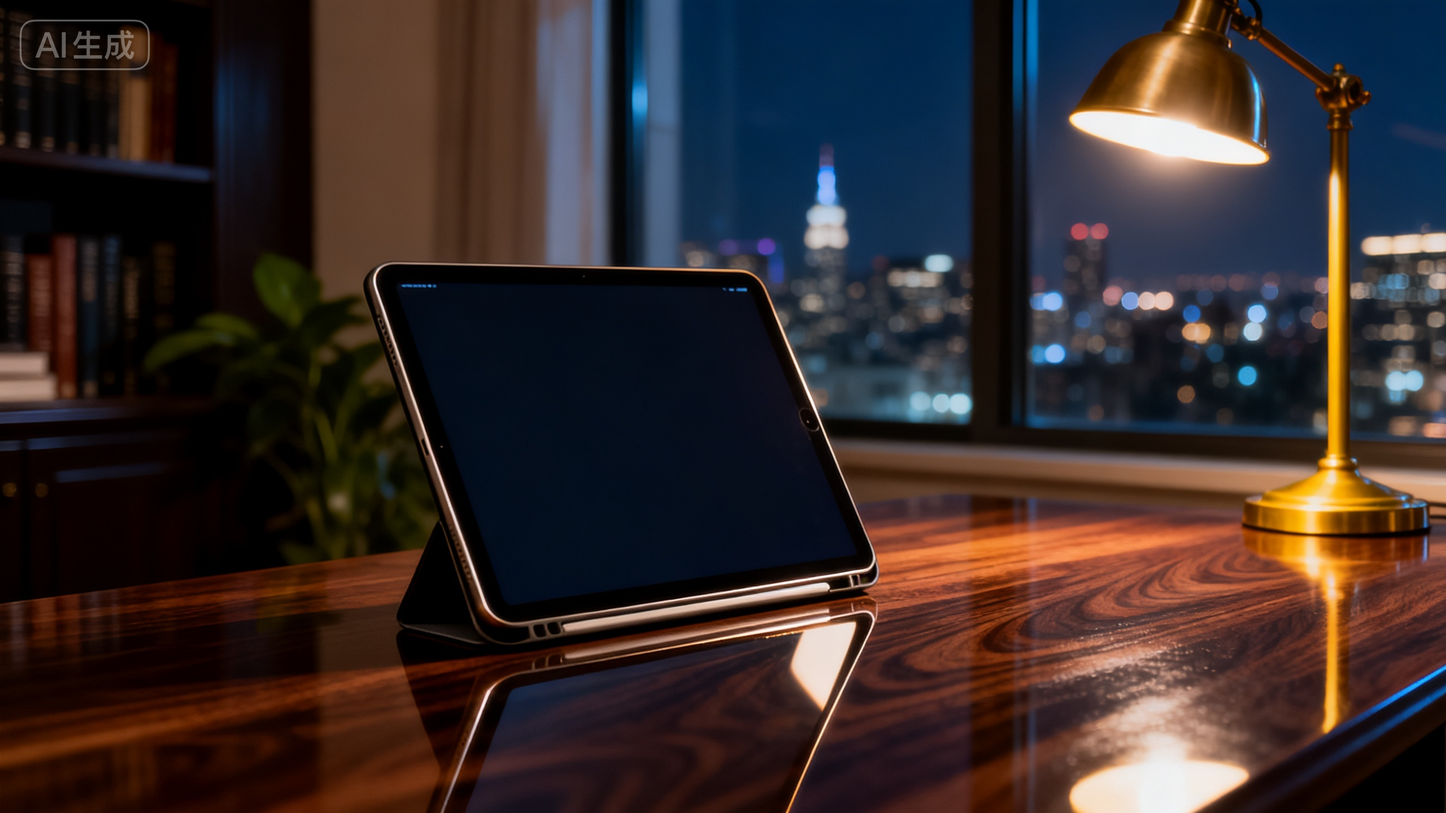
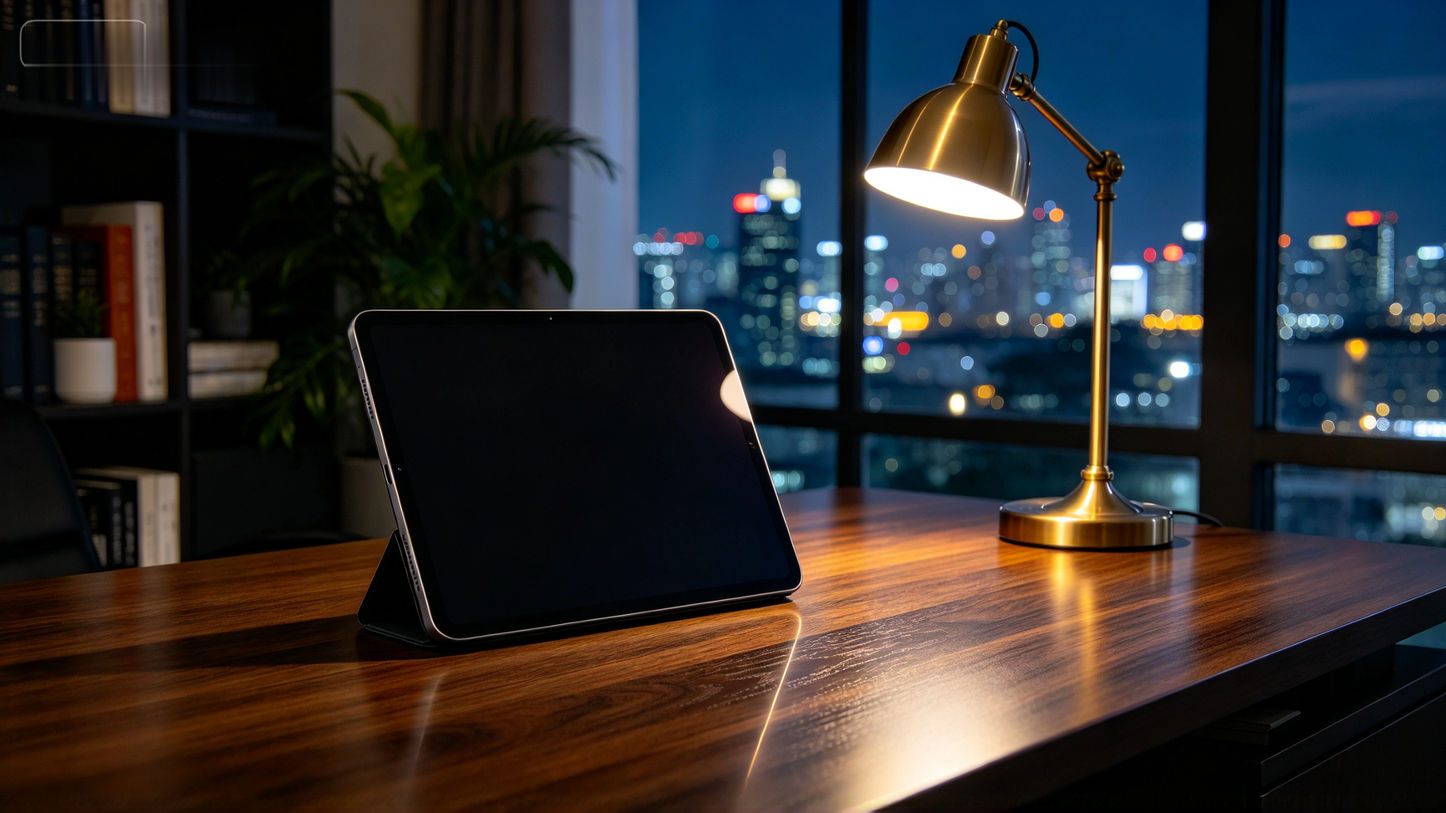
[dsh] 三层合成跑通：即梦4.7背景板+活体界面单应贴合+矢量文字；实测参考片是亮调(109)而本片是暗调(48)

diff --git a/studio/Composite.tsx b/studio/Composite.tsx
@@ -1,0 +1,243 @@
+// 合成：即梦背景板 + LiveUI（单应变换贴到平板上）+ 扁平矢量文字层
+//
+// 为什么必须用单应变换：背景板上的屏幕是个梯形（下边比上边宽 14%），
+// 简单的 scale/rotate 贴不上，四角必然错位。CSS matrix3d 可以表达 2D 单应。
+//
+// 渲染：
+//   npx remotion render studio/index.ts Composite out/composite.mp4 --concurrency=1
+
+import React, { useLayoutEffect, useRef, useState } from "react";
+import {
+  AbsoluteFill,
+  Composition,
+  Img,
+  interpolate,
+  staticFile,
+  useCurrentFrame,
+  useVideoConfig,
+} from "remotion";
+import { draw } from "./LiveUI";
+
+const UIW = 1600;
+const UIH = 1200;
+
+/**
+ * 背景板上屏幕四角的坐标（1920×1080 画面空间，从带网格的底图上量出来的）。
+ * 顺序：左上 → 右上 → 右下 → 左下。贴不准就微调这四个点。
+ */
+const QUAD: Array<[number, number]> = [
+  [466, 406],
+  [858, 409],
+  [964, 764],
+  [506, 772],
+];
+
+/**
+ * 把「单位正方形 → 四边形」的单应矩阵求出来（Heckbert 闭式解），
+ * 再折算成元素自身坐标系（宽 w、高 h），最后组装成 CSS matrix3d。
+ *
+ * CSS matrix3d 是列主序；2D 单应的齐次分量落在第 3 行，对应 CSS 的 m14/m24/m44。
+ */
+function homographyMatrix3d(quad: Array<[number, number]>, w: number, h: number): string {
+  const [p0, p1, p2, p3] = quad; // TL, TR, BR, BL
+  const x0 = p0[0], y0 = p0[1];
+  const x1 = p1[0], y1 = p1[1];
+  const x2 = p2[0], y2 = p2[1];
+  const x3 = p3[0], y3 = p3[1];
+
+  const dx1 = x1 - x2, dx2 = x3 - x2, dx3 = x0 - x1 + x2 - x3;
+  const dy1 = y1 - y2, dy2 = y3 - y2, dy3 = y0 - y1 + y2 - y3;
+
+  let a: number, b: number, c: number, d: number, e: number, f: number, g2: number, h2: number;
+  if (Math.abs(dx3) < 1e-9 && Math.abs(dy3) < 1e-9) {
+    // 仿射退化：没有透视
+    a = x1 - x0; b = x2 - x1; c = x0;
+    d = y1 - y0; e = y2 - y1; f = y0;
+    g2 = 0; h2 = 0;
+  } else {
+    const den = dx1 * dy2 - dx2 * dy1;
+    g2 = (dx3 * dy2 - dx2 * dy3) / den;
+    h2 = (dx1 * dy3 - dx3 * dy1) / den;
+    a = x1 - x0 + g2 * x1;
+    b = x3 - x0 + h2 * x3;
+    c = x0;
+    d = y1 - y0 + g2 * y1;
+    e = y3 - y0 + h2 * y3;
+    f = y0;
+  }
+  // 上面的解定义在单位正方形上，元素坐标是 [0,w]×[0,h]，所以横向除以 w、纵向除以 h
+  const h11 = a / w, h12 = b / h, h13 = c;
+  const h21 = d / w, h22 = e / h, h23 = f;
+  const h31 = g2 / w, h32 = h2 / h;
+
+  const m = [h11, h21, 0, h31, h12, h22, 0, h32, 0, 0, 1, 0, h13, h23, 0, 1];
+  return `matrix3d(${m.map((v) => (Math.abs(v) < 1e-12 ? 0 : +v.toFixed(10))).join(",")})`;
+}
+
+/** 调试：把映射用的四边形画出来，用来对齐平板屏幕 */
+const SHOW_QUAD = false;
+
+const CompositeComp: React.FC = () => {
+  const frame = useCurrentFrame();
+  const { fps, width, height } = useVideoConfig();
+  const ref = useRef<HTMLCanvasElement | null>(null);
+
+  // 必须 useLayoutEffect：Remotion 截图不会等 useEffect
+  useLayoutEffect(() => {
+    const cv = ref.current;
+    if (!cv) return;
+    const g = cv.getContext("2d");
+    if (!g) return;
+    g.setTransform(1, 0, 0, 1, 0, 0);
+    g.clearRect(0, 0, UIW, UIH);
+    draw(g, frame, fps);
+  }, [frame, fps]);
+
+  const transform = homographyMatrix3d(QUAD, UIW, UIH);
+
+  // 文字层：第三幕压上来（保留 —— 这是人类明确说喜欢的部分）
+  const overlayIn = interpolate(frame, [17.5 * fps, 19.5 * fps], [0, 1], {
+    extrapolateLeft: "clamp",
+    extrapolateRight: "clamp",
+    easing: (v) => 1 - Math.pow(1 - v, 3),
+  });
+  const scrim = interpolate(frame, [17.5 * fps, 20 * fps], [0, 1], {
+    extrapolateLeft: "clamp",
+    extrapolateRight: "clamp",
+  });
+  const fadeIn = interpolate(frame, [0, 1 * fps], [0, 1], {
+    extrapolateLeft: "clamp",
+    extrapolateRight: "clamp",
+  });
+  const lines = [
+    "环境层：即梦生成的写实背景板（相机锁死）",
+    "内容层：实时绘制的工作区界面 + 单应变换贴合",
+    "强调层：扁平矢量文字",
+  ];
+
+  return (
+    <AbsoluteFill style={{ background: "#05080d", opacity: fadeIn }}>
+      {/* 环境层：即梦背景板 */}
+      <Img
+        src={staticFile("plates/desk-night.png")}
+        style={{ position: "absolute", inset: 0, width, height, objectFit: "cover" }}
+      />
+
+      {/* 内容层：贴到平板屏幕上 */}
+      <div
+        style={{
+          position: "absolute",
+          left: 0,
+          top: 0,
+          width: UIW,
+          height: UIH,
+          transformOrigin: "0 0",
+          transform,
+          // 屏幕本身是发光的，轻微提亮让 UI 和背景板的曝光对上
+          filter: "brightness(1.06) contrast(1.04)",
+        }}
+      >
+        <canvas ref={ref} width={UIW} height={UIH} style={{ width: UIW, height: UIH, display: "block" }} />
+      </div>
+
+      {/* 调试：四边形轮廓 */}
+      {SHOW_QUAD ? (
+        <svg width={width} height={height} style={{ position: "absolute", inset: 0, pointerEvents: "none" }}>
+          <polygon
+            points={QUAD.map((p) => p.join(",")).join(" ")}
+            fill="none"
+            stroke="#ff2d55"
+            strokeWidth={4}
+          />
+          {QUAD.map((p, i) => (
+            <circle key={i} cx={p[0]} cy={p[1]} r={9} fill="#ff2d55" />
+          ))}
+        </svg>
+      ) : null}
+
+      {/* 屏幕外溢的冷光，让 UI 和背景板发生关系 */}
+      <AbsoluteFill
+        style={{
+          background:
+            "radial-gradient(ellipse 46% 40% at 43% 50%, rgba(90,140,220,0.10) 0%, rgba(90,140,220,0.03) 45%, rgba(0,0,0,0) 72%)",
+          mixBlendMode: "screen",
+          pointerEvents: "none",
+        }}
+      />
+
+      {/* 强调层：扁平矢量文字 */}
+      <AbsoluteFill
+        style={{
+          background: `linear-gradient(to top, rgba(4,7,12,${0.7 * scrim}) 0%, rgba(4,7,12,${0.3 * scrim}) 26%, rgba(4,7,12,0) 46%)`,
+          opacity: overlayIn,
+        }}
+      />
+      <AbsoluteFill
+        style={{
+          justifyContent: "flex-end",
+          padding: "0 88px 76px",
+          fontFamily: "'Microsoft YaHei', system-ui, sans-serif",
+          pointerEvents: "none",
+        }}
+      >
+        <div style={{ opacity: overlayIn }}>
+          <div
+            style={{
+              display: "inline-block",
+              padding: "5px 14px",
+              borderRadius: 999,
+              background: "rgba(45,108,246,0.22)",
+              border: "1px solid rgba(90,150,255,0.4)",
+              color: "#9dc0ff",
+              fontSize: 15,
+              letterSpacing: 1.6,
+              marginBottom: 16,
+            }}
+          >
+            COMPOSITE · 三层合成
+          </div>
+          <div
+            style={{
+              color: "#f2f5f9",
+              fontSize: 52,
+              fontWeight: 700,
+              letterSpacing: 0.5,
+              marginBottom: 20,
+              transform: `translateY(${(1 - overlayIn) * 18}px)`,
+            }}
+          >
+            写实环境 + 活体界面 + 扁平文字
+          </div>
+          {lines.map((l, i) => {
+            const a = interpolate(
+              frame,
+              [(19 + i * 0.9) * fps, (20.4 + i * 0.9) * fps],
+              [0, 1],
+              { extrapolateLeft: "clamp", extrapolateRight: "clamp", easing: (v) => 1 - Math.pow(1 - v, 3) },
+            );
+            return (
+              <div
+                key={i}
+                style={{
+                  display: "flex",
+                  alignItems: "center",
+                  gap: 14,
+                  opacity: a,
+                  transform: `translateX(${(1 - a) * -14}px)`,
+                  marginBottom: 10,
+                }}
+              >
+                <div style={{ width: 7, height: 7, borderRadius: 4, background: "#37d6a8" }} />
+                <span style={{ color: "rgba(226,236,248,0.92)", fontSize: 22 }}>{l}</span>
+              </div>
+            );
+          })}
+        </div>
+      </AbsoluteFill>
+    </AbsoluteFill>
+  );
+};
+
+export const CompositeRoot: React.FC = () => (
+  <Composition id="Composite" component={CompositeComp} durationInFrames={900} fps={30} width={1920} height={1080} />
+);

diff --git a/studio/LiveUI.tsx b/studio/LiveUI.tsx
@@ -16,7 +16,9 @@ import React, { useLayoutEffect, useRef } from "react";
 import { AbsoluteFill, Composition, useCurrentFrame, useVideoConfig } from "remotion";
 
 const W = 1600;
-const H = 900;
+// 4:3 —— 要贴到背景板的平板上（真实平板屏幕就是 4:3）。
+// 用 16:9 贴上去会被单应变换横向压扁 33%，文字会明显变形。
+const H = 1200;
 
 const FONT = "'Inter','Microsoft YaHei',system-ui,sans-serif";
 
@@ -30,7 +32,7 @@ function easeOut(t: number) {
 }
 
 /** 工作区绘制。全部按时间连续演化，没有任何"一次性播完就停"的东西。 */
-function draw(g: CanvasRenderingContext2D, frame: number, fps: number) {
+export function draw(g: CanvasRenderingContext2D, frame: number, fps: number) {
   const t = frame / fps;
 
   // ---------- 背景 ----------
@@ -407,6 +409,33 @@ function draw(g: CanvasRenderingContext2D, frame: number, fps: number) {
     g.fillStyle = "rgba(170,195,220,0.5)";
     g.font = `400 13px ${FONT}`;
     g.fillText(`${(1240 + Math.floor(t * 7)).toLocaleString("en-US")} 条`, gx0 + 18, 352);
+  }
+
+  // ---------- 底部：渲染队列（填满 4:3 画布的下半部分）----------
+  const qy = 800;
+  g.fillStyle = "rgba(255,255,255,0.03)";
+  rr(g, 40, qy, 1520, 350, 16);
+  g.fill();
+  g.fillStyle = "rgba(170,195,220,0.5)";
+  g.font = `500 15px ${FONT}`;
+  g.fillText("Render Queue", 64, qy + 32);
+  for (let i = 0; i < 5; i++) {
+    const qyy = qy + 62 + i * 56;
+    const prog = (t * 0.22 + i * 0.17) % 1;
+    g.fillStyle = "rgba(255,255,255,0.05)";
+    rr(g, 64, qyy, 1080, 22, 11);
+    g.fill();
+    const grd = g.createLinearGradient(64, 0, 64 + 1080 * prog, 0);
+    grd.addColorStop(0, "rgba(79,147,255,0.9)");
+    grd.addColorStop(1, "rgba(56,214,168,0.95)");
+    g.fillStyle = grd;
+    rr(g, 64, qyy, Math.max(4, 1080 * prog), 22, 11);
+    g.fill();
+    g.fillStyle = "rgba(210,225,245,0.85)";
+    g.font = `400 14px ${FONT}`;
+    g.fillText(`shot-${String(i + 1).padStart(2, "0")}`, 1176, qyy + 17);
+    g.fillStyle = "rgba(170,195,220,0.5)";
+    g.fillText(`${Math.round(prog * 100)}%`, 1290, qyy + 17);
   }
 
   // ---------- 大面积掠光 ----------

diff --git a/studio/Root.tsx b/studio/Root.tsx
@@ -1,11 +1,13 @@
 import React from "react";
 import { StudioRoot } from "./StudioProof";
 import { LiveUIRoot } from "./LiveUI";
+import { CompositeRoot } from "./Composite";
 
 /** studio 实验区的合成总表 */
 export const Root: React.FC = () => (
   <>
     <StudioRoot />
     <LiveUIRoot />
+    <CompositeRoot />
   </>
 );
